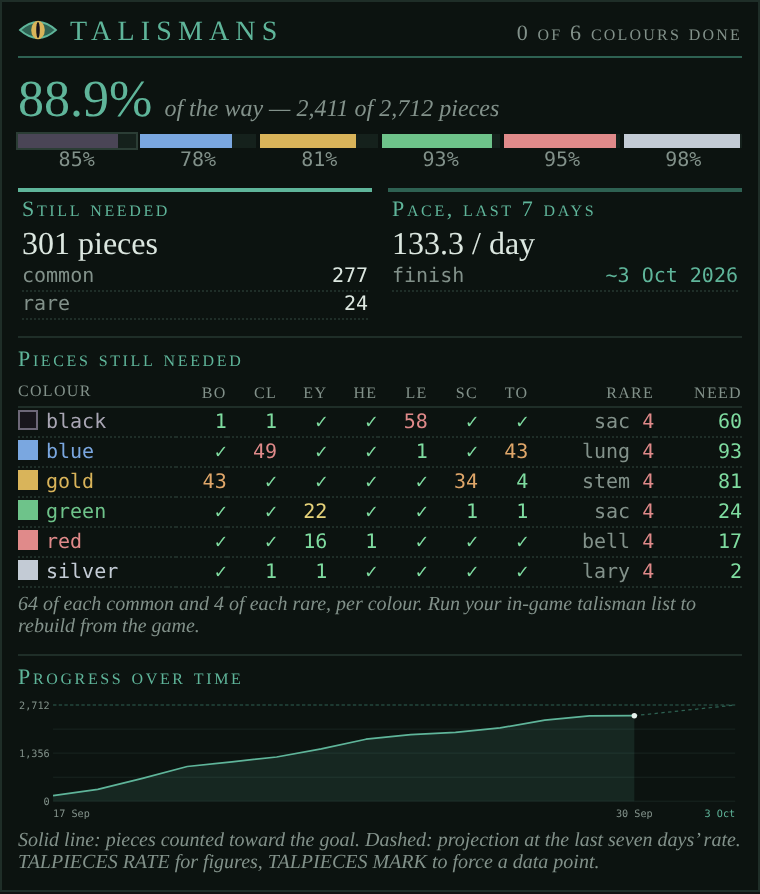
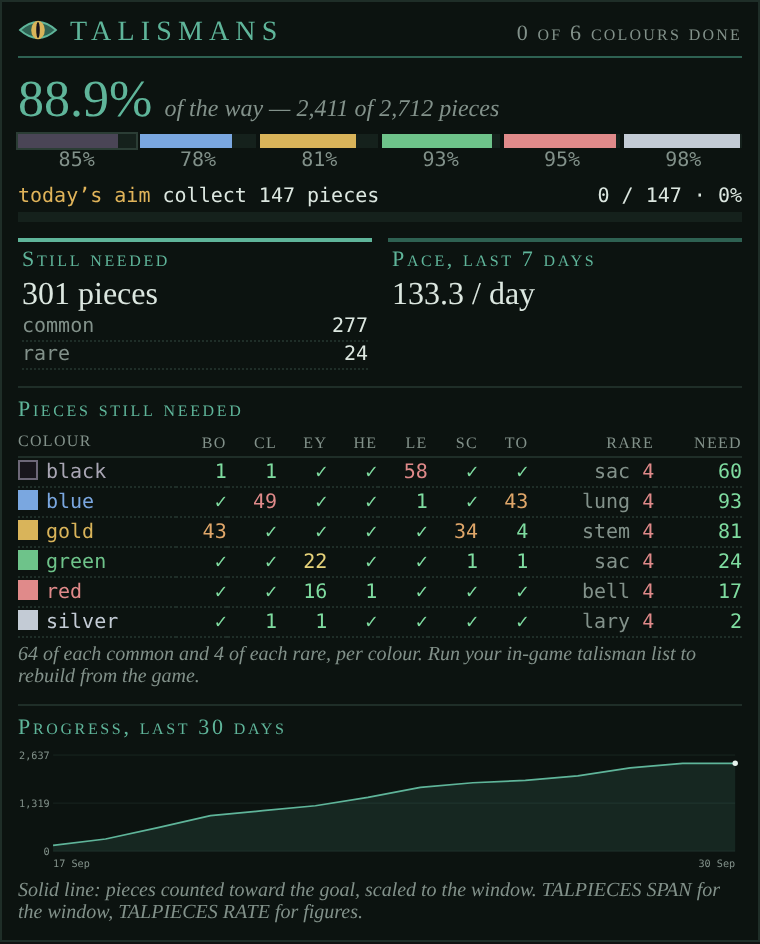
talpieces: drop the projected finish date
Same reason as the graph's projection line: pieces drop at random, so near
the end most finds are ones you no longer need and a straight-line date
misleads. The Pace box keeps pieces/day without a finish row; RATE keeps the
7-day, 30-day and all-time rates. HELP, package description, docs and the
docs screenshot follow.

Claude-Session: https://claude.ai/code/session_01Dwg4aCtfxNA43JDQdDR4sT

diff --git a/packages/talpieces/talpieces_render.js b/packages/talpieces/talpieces_render.js
@@ -27,7 +27,6 @@ var MN = ["Jan", "Feb", "Mar", "Apr", "May", "Jun", "Jul", "Aug", "Sep", "Oct", 
 function esc(s) { return String(s).replace(/&/g, "&amp;").replace(/</g, "&lt;").replace(/>/g, "&gt;"); }
 function n1(v) { return Math.round(v * 10) / 10; }
 function fmtShort(sec) { var d = new Date(sec * 1000); return d.getDate() + " " + MN[d.getMonth()]; }
-function fmtLong(sec) { var d = new Date(sec * 1000); return d.getDate() + " " + MN[d.getMonth()] + " " + d.getFullYear(); }
 function thou(n) { var s = String(Math.round(n)); var o = ""; while (s.length > 3) { o = "," + s.slice(-3) + o; s = s.slice(0, -3); } return s + o; }
 // Heat for "still needed": green when nearly there, warming to red when far.
 function col(need, max) {
@@ -86,7 +85,7 @@ var perColourGoal = t.reqCommon * t.commonTypes.length + t.reqRare;
 
 // Pace from the history, over the trailing seven days.
 var hs = TP.hist || [];
-var rate = 0, etaT = 0;
+var rate = 0;
 if (hs.length >= 2) {
   var last = hs[hs.length - 1];
   var lastTot = last[1] + last[2];
@@ -95,10 +94,6 @@ if (hs.length >= 2) {
   for (var hi = hs.length - 1; hi >= 0; hi--) { if (hs[hi][0] <= cutoff) { ref = hs[hi]; break; } }
   var spanD = (last[0] - ref[0]) / 86400;
   rate = spanD > 0 ? ((lastTot - (ref[1] + ref[2])) / spanD) : 0;
-  if (rate > 0 && lastTot < goal) {
-    var daysLeft = (goal - lastTot) / rate;
-    if (daysLeft < 3650) { etaT = last[0] + Math.round(daysLeft * 86400); }
-  }
 }
 function rateTxt(r) { return r < 1 ? String(Math.round(r * 100) / 100) : String(Math.round(r * 10) / 10); }
 
@@ -244,7 +239,6 @@ if (owned >= goal) {
   pb += '<div style="font-family:' + SERIF + ';font-size:16px;color:' + DONE + ';">complete</div>';
 } else if (rate > 0) {
   pb += '<div style="font-family:' + SERIF + ';font-size:16px;color:' + TXT + ';">' + rateTxt(rate) + ' / day</div>';
-  pb += row("finish", etaT > 0 ? '~' + fmtLong(etaT) : 'beyond ten years', etaT > 0 ? AME : MUTED);
 } else {
   pb += quiet(hs.length < 2 ? "Not enough history yet." : "No gain in the last 7 days.");
 }

diff --git a/packages/talpieces/talpieces_rate.js b/packages/talpieces/talpieces_rate.js
@@ -37,16 +37,9 @@ if (hs.length === 0) {
   if (all) {
     display_notice("[talpieces] all time: " + (all.gain >= 0 ? "+" : "") + all.gain + " pieces over " + (Math.round(all.days * 10) / 10) + "d = " + (Math.round(all.per * 10) / 10) + "/day", "cyan");
   }
-  var seven = rateOver(7);
+  // No projected finish: pieces drop at random, so near the end most finds
+  // are ones you no longer need and a straight-line date misleads (Ricardo).
   if (tot >= goal) {
     display_notice("[talpieces] the set is complete.", "lime");
-  } else if (seven && seven.per > 0) {
-    var dl = (goal - tot) / seven.per;
-    display_notice("[talpieces] at the " + (seven.whole ? "all-time" : "7-day") + " rate: about " + Math.ceil(dl) + " days left, finishing near " + fl(last2[0] + Math.round(dl * 86400)), "cyan");
-  } else if (all && all.per > 0) {
-    var dl2 = (goal - tot) / all.per;
-    display_notice("[talpieces] no gain in the last 7 days. At the all-time rate: about " + Math.ceil(dl2) + " days left.", "orange");
-  } else {
-    display_notice("[talpieces] not enough movement yet to project a finish.", "cyan");
   }
 }

diff --git a/packages/talpieces/talpieces_help.js b/packages/talpieces/talpieces_help.js
@@ -6,7 +6,7 @@ var hlTitle = "[talpieces] dragon talisman pieces toward the Elder Dragon set. C
 var hlRows = [
   ["TALPIECES", "progress, history and settings"],
   ["TALPIECES NEED", "pieces still needed, per colour and type"],
-  ["TALPIECES RATE", "pieces per day and a projected finish"],
+  ["TALPIECES RATE", "pieces per day: last 7 and 30 days, and all time"],
   ["TALPIECES GOAL <n|OFF>", "a goal of your own: collect n pieces from now, shown in place of the daily aim"],
   ["TALPIECES MARK", "store a history point now"],
   ["TALPIECES GRAPH [ON|OFF]", "show or hide the graph in the Talismans tab"],

diff --git a/docs/talpieces.md b/docs/talpieces.md
@@ -1,6 +1,6 @@
 # TalPieces
 
-*Dragon talisman pieces counted toward the Elder Dragon set: what you have, what you still need, and when you'll finish at your pace.*
+*Dragon talisman pieces counted toward the Elder Dragon set: what you have, what you still need, and how fast they're coming in.*
 
 <!-- loom:version talpieces -->
 *This page describes talpieces 1.2.0.*
@@ -14,7 +14,7 @@ TalPieces keeps count of your dragon talisman pieces as you find them, trade the
 
 - **The headline**: how much of the set you hold, common and rare.
 - **A goal bar**, when you set a goal of your own or have today's aim from the ledger.
-- **A graph** of your progress over the last 30 days (or any span you pick), and your pace over the last seven days with a projected finish date.
+- **A graph** of your progress over the last 30 days (or any span you pick), and your pace over the last seven days.
 - **A grid of what's still needed**, by colour (black, blue, gold, green, red, silver) and piece type, coloured from green (nearly there) to red (far off).
 
 The set needs, per colour, 64 of each of the seven common pieces and 4 of the rare one. Higher-level pieces count for more: a level-n piece is worth 2^(n-1) level-1 pieces, so a level-3 claw counts as 4. Extra pieces beyond what a type needs don't count toward the goal (100 black claws still count as 64).
@@ -32,7 +32,7 @@ It counts from the game's lines:
 |---|---|
 | `TALPIECES` | progress, history and settings |
 | `TALPIECES NEED` | pieces still needed, per colour and type |
-| `TALPIECES RATE` | pieces per day and a projected finish |
+| `TALPIECES RATE` | pieces per day: last 7 and 30 days, and all time |
 | `TALPIECES GOAL <n\|OFF>` | a goal of your own: collect n pieces from now, shown in place of the daily aim |
 | `TALPIECES MARK` | store a history point now |
 | `TALPIECES GRAPH [ON\|OFF]` | show or hide the graph in the Talismans tab |
@@ -46,7 +46,7 @@ It counts from the game's lines:
 | **Pieces are counted as you find, trade and list them; list yours in game to rebuild the count.** | |
 <!-- /loom:commands -->
 
-`TALPIECES NEED` prints the needed grid in the main window; `TALPIECES RATE` your pace and projected finish. `TALPIECES MARK` stores a history point now.
+`TALPIECES NEED` prints the needed grid in the main window; `TALPIECES RATE` your pace over the last 7 and 30 days and all time. There's no projected finish date: pieces drop at random, so near the end most of what you find is pieces you no longer need, and a straight-line date would mislead. `TALPIECES MARK` stores a history point now.
 
 ### Starting from where you are
 
@@ -92,5 +92,4 @@ A second link, `talpieces-aim-ledger`, sets a **daily aim**: "Collect 21 talisma
 ## Troubleshooting
 
 - **The count is wrong.** List your pieces in game: the listing replaces the count with what the game shows.
-- **"not enough movement yet to project a finish".** It needs progress in the history: the last 7 days, or all of it when the history is shorter. `TALPIECES SEED` gives it a past.
 - **`TALPIECES WIPE PIECES`** clears the count; **`WIPE HISTORY`** clears the graph. There's no undo for either.

diff --git a/docs/README.md b/docs/README.md
@@ -45,7 +45,7 @@ Every integration between packages is listed on the [loom page](loom.md#integrat
 | Package | Tab | What it does |
 | --- | --- | --- |
 | [coffers](coffers.md) | Coffers | Gold tracker: fortune, income and spending by session and day, goals |
-| [talpieces](talpieces.md) | Talismans | Dragon talisman piece tracker with history and a projected finish |
+| [talpieces](talpieces.md) | Talismans | Dragon talisman piece tracker with history and pace |
 | [vials](vials.md) | — | Refill your vials from the rift by elixir |
 | [magi](magi.md) | — | Magi helpers: even crystal refining, pearls, portals, staff attack, treaties |
 | [harvesting](harvesting.md) | — | Harvests the plants your rift is short of as you walk the rooms |
